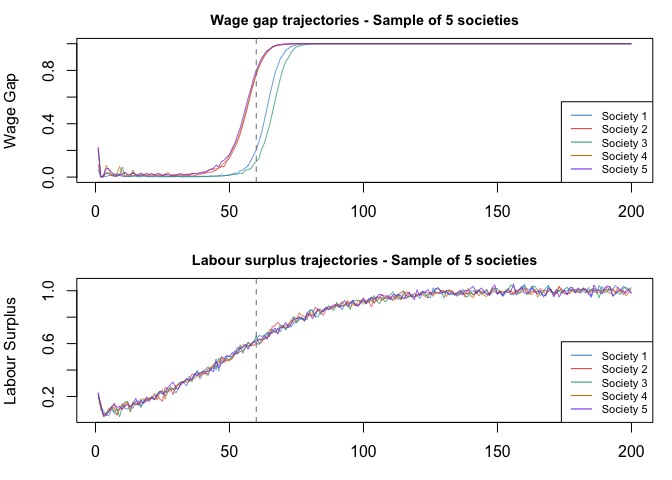
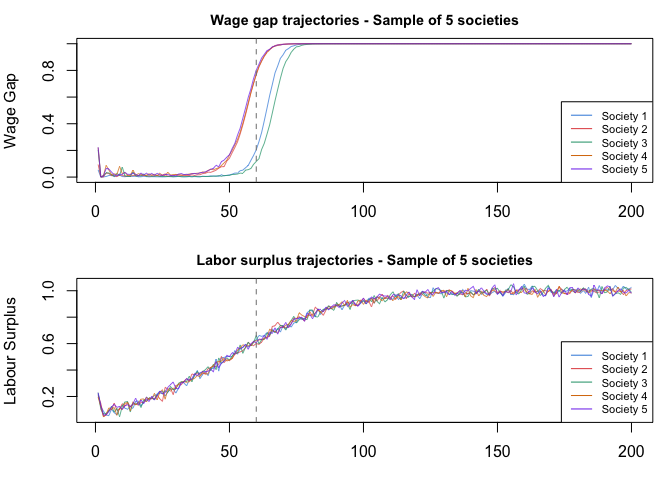
edit

Changed region(s): [[0.2812, 0.5312, 0.8125, 0.5625]]

diff --git a/wage_lab.md b/wage_lab.md
@@ -52,10 +52,10 @@ simulation, a sensitivity analysis on the structural parameters is
 conducted to assess whether the core findings remain stable across
 alternative parameter specifications.
 
-Finally, we compare **frequentist and Bayesian approaches to parameter
-recovery**, testing whether Marx’s structural parameters — including the
-interaction term between wage depression and labor surplus — are
-statistically detectable from synthetic historical data.
+Finally, we compare **the Frequentist and the Bayesian approaches to
+parameter recovery**, testing whether Marx’s structural parameters —
+including the interaction term between wage depression and labor surplus
+— are statistically detectable from synthetic historical data.
 
 ### 2. Theoretical Framework
 
@@ -88,14 +88,14 @@ dynamics.
 $P(crisis[t]) = logistic(z)$, with :
 
 $$
-z = \beta_0+\beta_1x_1+\beta_2x_2+\beta_3x_1x_2
+z = \beta_0+ \beta_1\cdot CP_W+ \beta_2 \cdot CP_L+ \beta_3 \cdot CP_W \cdot CP_L
 $$
 
-- $x_1$: cumulative wage gap
+- $CP_W$: cumulative wage gap
 
-- $x_2$: cumulative labor surplus
+- $CP_L$: cumulative labor surplus
 
-- $x_1x_2$ : mutual reinforcement between wage gap and labor surplus
+- $CP_WCPL$ : mutual reinforcement between wage gap and labor surplus
 
 The structural crisis outcome $Y_t$ \~ $Bernoulli(pt)$ represents the
 binary realization of accumulated structural pressure — does a
@@ -744,7 +744,7 @@ legend("bottomright", legend = paste("Society", 1:5),
 ``` r
 par(mfrow = c(2, 1), mar = c(3, 4, 2, 1))
 trajectories_func(wage_gap_fin, ylab = "Wage Gap", main = "Wage gap trajectories - Sample of 5 societies")
-trajectories_func(labor_surplus_fin, ylab = "Labour Surplus", main = "Labour surplus trajectories - Sample of 5 societies")
+trajectories_func(labor_surplus_fin, ylab = "Labour Surplus", main = "Labor surplus trajectories - Sample of 5 societies")
 ```
 
 ![](wage_lab_files/figure-gfm/unnamed-chunk-24-1.png)<!-- -->
@@ -1327,7 +1327,7 @@ intractable, we approximate it through sampling. To this end, we
 implement two methods from the Markov Chain Monte Carlo (MCMC) family: a
 manual Metropolis–Hastings sampler and Hamiltonian Monte Carlo.
 
-- **Manual Metropolis-Hastings**
+**Manual Metropolis-Hastings (MH)**
 
 For our manual Metropolis-Hastings implementation, we assign Normal
 priors to the model parameters. Specifically, we center the priors for
@@ -1716,11 +1716,11 @@ data.frame(
 samplers—standard Metropolis–Hastings, Metropolis–Hastings with
 standardized predictors, and Metropolis–Hastings with a multivariate
 normal proposal—fail the convergence test. With $\hat{R}$ values ranging
-from 1.28 to 3.85, every variant lies far from the $\hat{R}$ ≤ 1
+from 1.180604 to 3.940527, every variant lies far from the $\hat{R}$ ≤ 1
 benchmark. These values quantitatively confirm the diagnosis suggested
 by the trace plots: no variant achieves simultaneous convergence across
 all four parameters. Notably, even in the best case (standard
-Metropolis–Hastings, where $\beta_2$ $\hat{R}$ reaches 1.030176),
+Metropolis–Hastings, where $\beta_2$ $\hat{R}$ reaches 1.032897),
 convergence occurs for a single parameter only, while the remaining
 three fail badly. **This illustrates a key limitation: individual
 parameters may appear well-behaved in isolation, yet the joint posterior
@@ -1730,7 +1730,7 @@ suggests the bottleneck is not the tuning of the proposal, but the
 random-walk nature of Metropolis–Hastings itself—reinforcing the need
 for the gradient-based approach of Hamiltonian Monte Carlo (HMC).
 
-- **Hamiltonian Monte Carlo**
+**Hamiltonian Monte Carlo (HMC)**
 
 ``` r
 bayesian_model <- brm(
@@ -1798,10 +1798,10 @@ data.frame(
     ## 3      beta2  1.032897  2.190855  3.597005 0.9998596
     ## 4      beta3  2.291407  3.556249  3.377270 1.0002140
 
-All parameters achieved $\hat{R} \approx 1$ with the Hamiltonian Monte
-Carlo algorithm, confirming convergence across the four chains. In
-contrast, the manual Metropolis-Hastings sampler failed to achieve
-simultaneous convergence for all parameters.
+All parameters achieved $\hat{R}$ ≤ 1 with the Hamiltonian Monte Carlo
+algorithm, confirming convergence across the four chains. In contrast,
+the manual Metropolis-Hastings sampler failed to achieve simultaneous
+convergence for all parameters.
 
 ### 5. Time Series Diagnosis :
 
